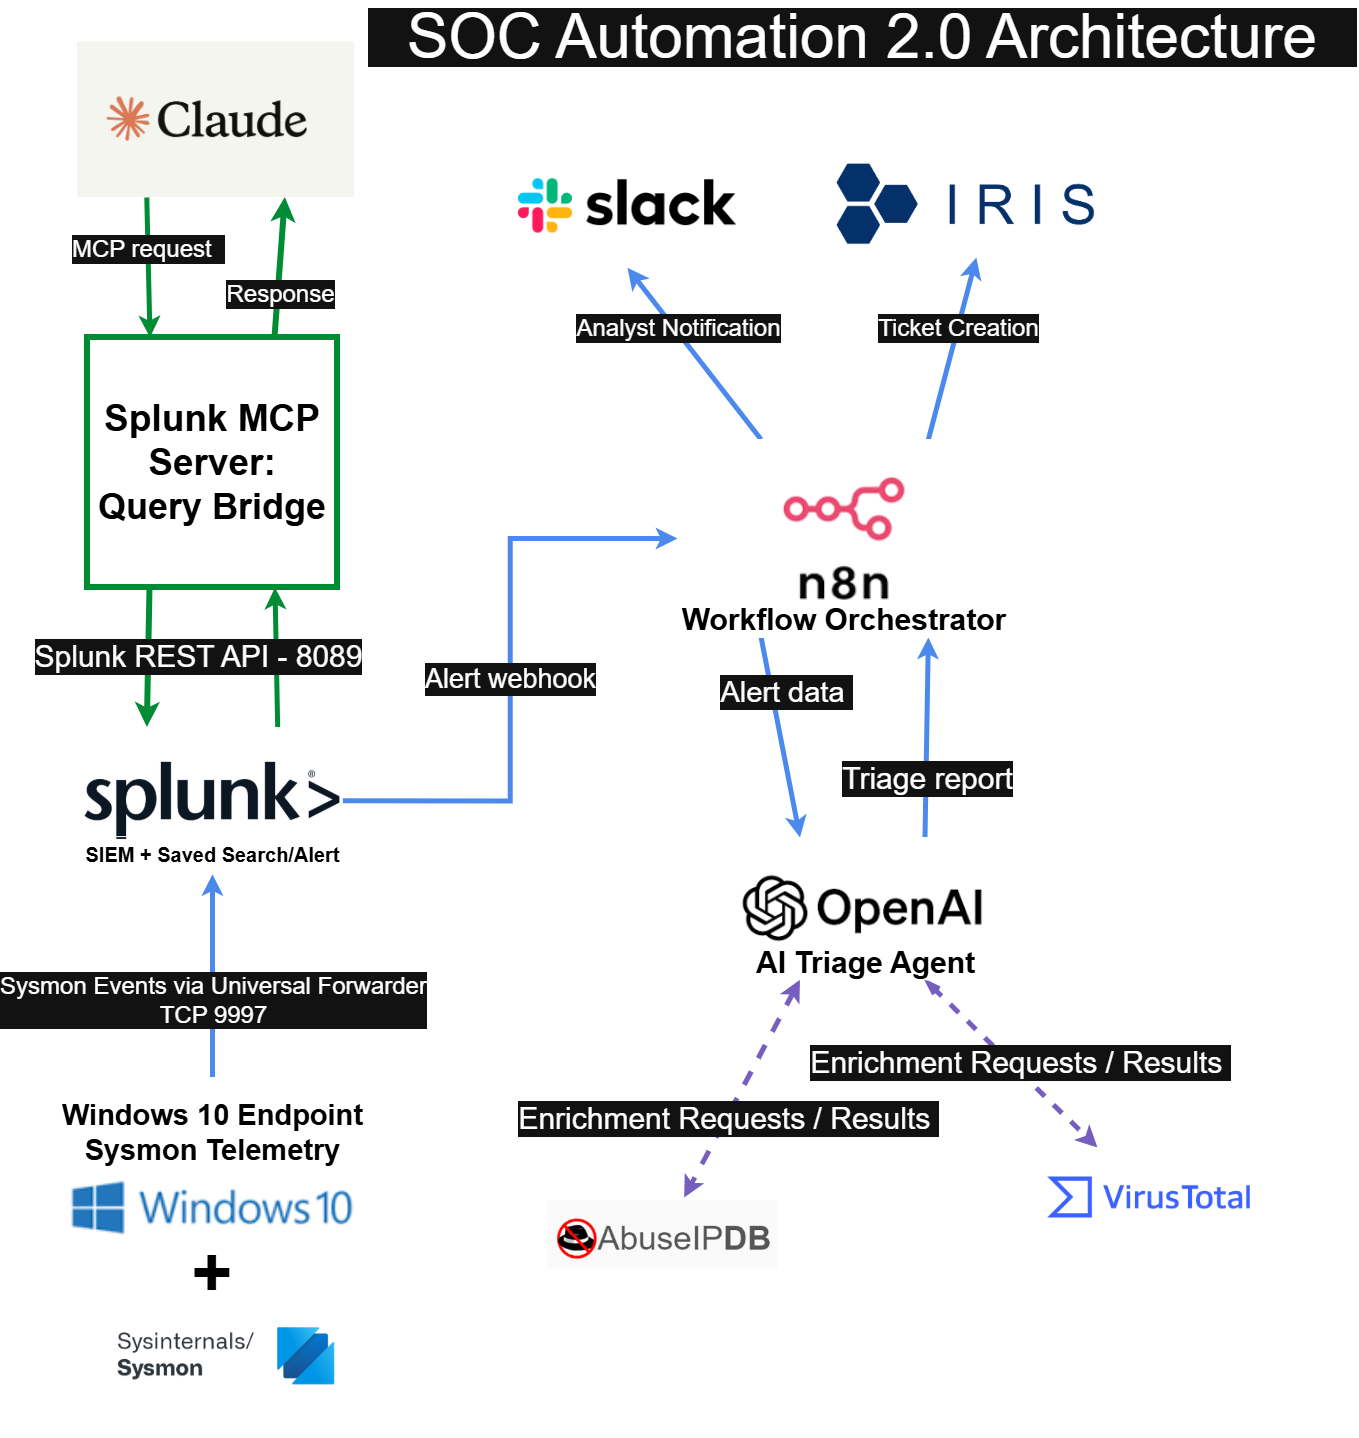
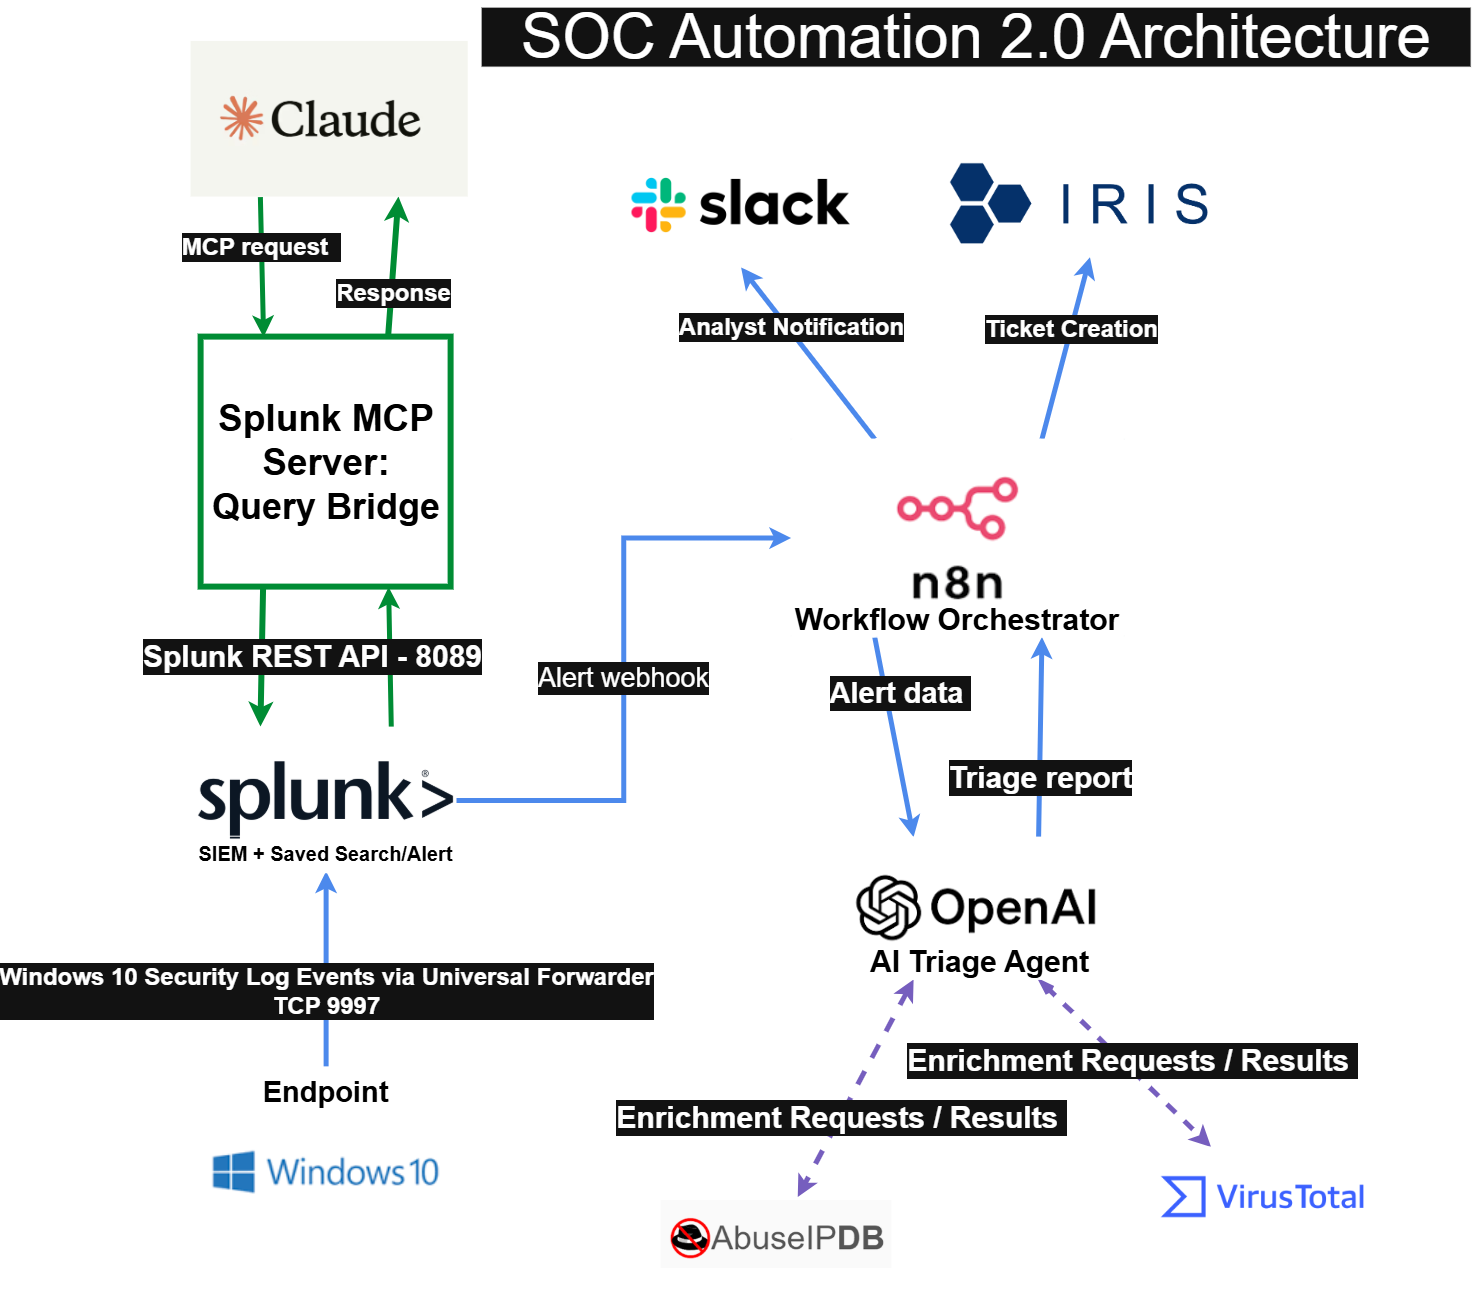
taking out sysmon

Changed region(s): [[0.0, 0.0, 1.0, 0.9778], [0.6181, 0.0917, 0.8344, 0.3056]]

diff --git a/Walkthrough.md b/Walkthrough.md
@@ -14,9 +14,8 @@ The project was built in an isolated virtual lab using the following systems:
 
 | System | Primary Role |
 |---|---|
-| Windows 10 VM | Endpoint used to generate controlled security telemetry |
-| Sysmon | Detailed process, network, file, and registry logging |
-| Splunk Universal Forwarder | Sends Windows and Sysmon events to Splunk |
+| Windows 10 VM | Endpoint that generates Windows Security, Application, and System Event Logs |
+| Splunk Universal Forwarder | Collects configured Windows Event Logs and sends them to Splunk |
 | Splunk Enterprise VM | Log ingestion, search, detection, and alert generation |
 | n8n VM | Workflow orchestration and integration management |
 | OpenAI API | Structured alert analysis and triage-report generation |
@@ -29,14 +28,12 @@ The VMs communicated over a private lab network. Credentials, API keys, tokens, 
 
 <!-- Add the final architecture diagram or link here if desired. -->
 
-## 2. Windows Telemetry and Splunk Ingestion
+## 2. Windows Event Log and Splunk Ingestion
 
-Sysmon was installed on the Windows 10 endpoint to capture detailed endpoint activity. The Splunk Universal Forwarder collected the selected Windows Event Logs and transmitted them to the Splunk server.
-
-The forwarder was configured to use the Splunk receiving port:
+The Windows 10 endpoint generated Security, Application, System, and operational event logs. The Splunk Universal Forwarder collected the configured Windows Event Log channels and forwarded them to the Splunk Enterprise server over TCP port `9997`.
 
 ```text
-Windows 10 + Sysmon → Splunk Universal Forwarder → Splunk TCP 9997
+Windows Event Logs → Splunk Universal Forwarder → Splunk TCP 9997
 ```
 
 The following items were validated independently:
@@ -50,7 +47,7 @@ The following items were validated independently:
 
 The final Splunk search confirmed that events from the Windows endpoint were being indexed successfully.
 
-<!-- Screenshot: screenshots/01-core-automation/01-splunk-telemetry-ingestion.png -->
+<!-- Screenshot: screenshots/01-core-automation/01-windows-event-log-ingestion.png -->
 
 > A forwarding-destination issue was identified and corrected during setup. The root cause and resolution are documented in [Troubleshooting-Log.md](Troubleshooting-Log.md).
 

diff --git a/README.md b/README.md
@@ -6,7 +6,7 @@ An end-to-end SOC alert-triage automation lab integrating Splunk, n8n, OpenAI, S
 
 SOC analysts often spend valuable time collecting alert details, enriching indicators, documenting findings, and transferring information between separate tools. This project demonstrates how those repetitive steps can be automated while keeping the analyst responsible for validating the evidence and making the final escalation decision.
 
-The workflow begins with Windows 10 and Sysmon telemetry in Splunk. When Splunk detects suspicious activity, it sends an alert to an n8n webhook. The webhook passes the alert to an OpenAI agent, which uses VirusTotal and AbuseIPDB as enrichment tools during its analysis. The completed triage output is then sent to DFIR-IRIS for ticket creation and to Slack for analyst notification.
+The workflow begins with Windows 10 Security Event Logs in Splunk. When Splunk detects suspicious activity, it sends an alert to an n8n webhook. The webhook passes the alert to an OpenAI agent, which uses VirusTotal and AbuseIPDB as enrichment tools during its analysis. The completed triage output is then sent to DFIR-IRIS for ticket creation and to Slack for analyst notification.
 
 A separate Splunk MCP integration allows Claude Desktop to interact with the Splunk lab through approved tools. Claude can assist with analyst-driven searches and investigation pivots, but its results are validated against the original Splunk evidence.
 
@@ -120,7 +120,7 @@ See [Splunk-MCP-Claude.md](Splunk-MCP-Claude.md).
 
 | Category | Technologies |
 |---|---|
-| Endpoint telemetry | Windows 10, Sysmon, Windows Event Logs |
+| Endpoint telemetry | Windows 10, Windows Event Logs |
 | SIEM | Splunk Enterprise, Splunk Universal Forwarder |
 | Automation | n8n, webhooks, JSON, APIs |
 | AI analysis | OpenAI API |
